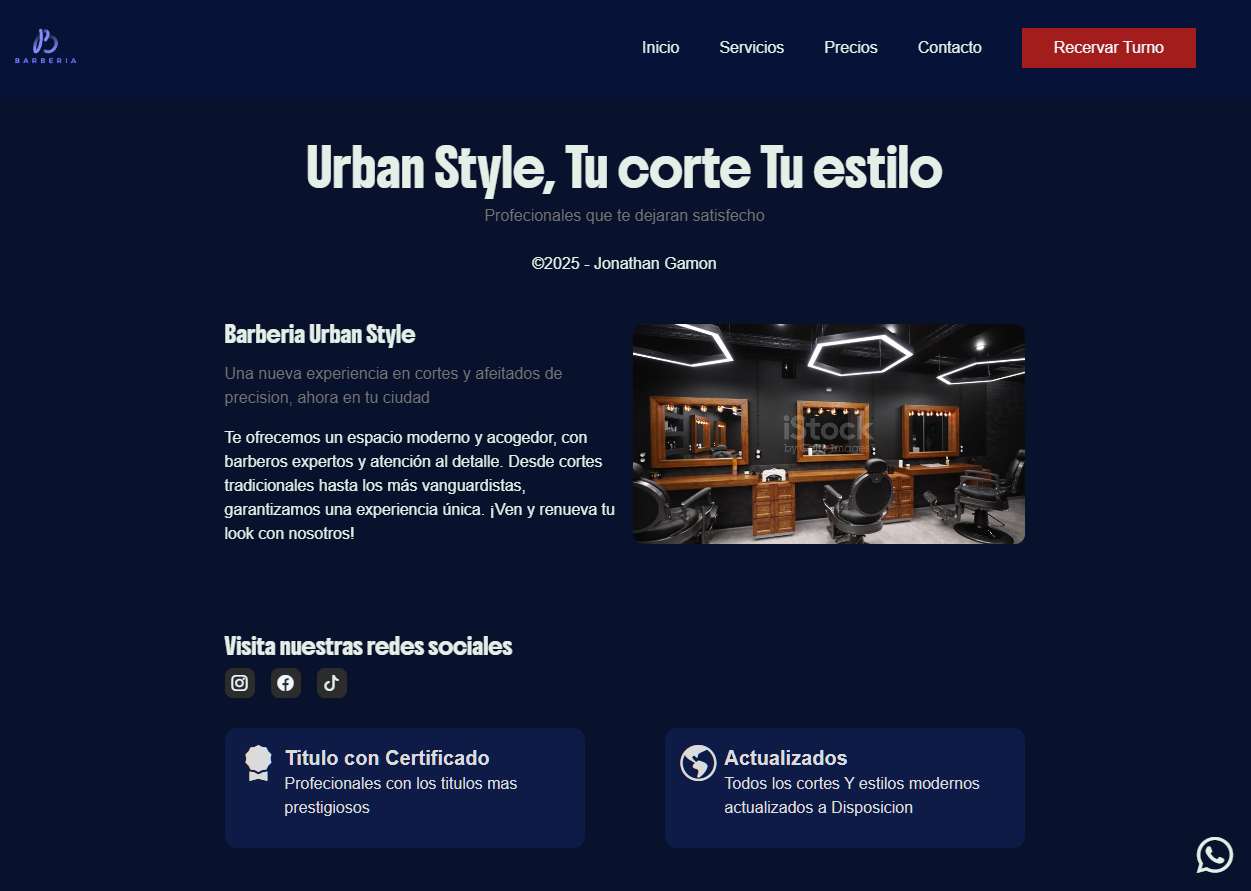
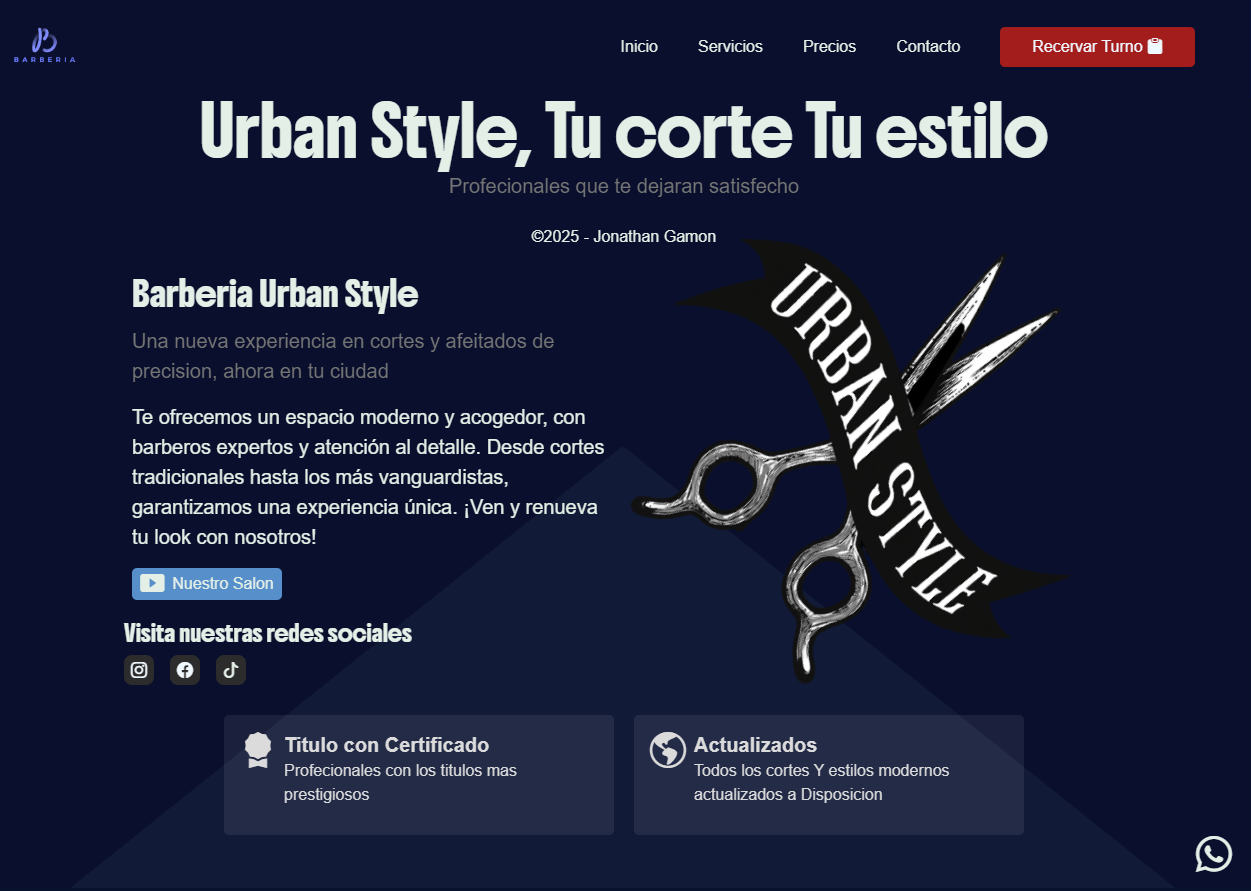
actualizacion en proyecto Barberia

diff --git a/index.html b/index.html
@@ -171,6 +171,41 @@
 
 
 
+        <!-- LANDING BARBERIA -->
+        <main data-aos="fade-up" data-aos-duration="800" class="grid grid-cols-1 grid-rows-8 sm:grid-cols-2 sm:grid-rows-1 gap-2 sm:gap-5 h-[600px] sm:h-[300px] my-[100px]">
+            <img class="row-span-4 sm:row-span-1 h-[100%] rounded-[10px] overflow-hidden m-auto" src="./src/assest/imagenes/img-portafolio/Barberia.png" alt="img-portafolio">
+            
+            <aside class="row-span-4 row-start-5 sm:col-start-2 sm:row-span-1 grid grid-cols-1 grid-rows-5">
+                <h1 class="tittle-project my-auto text-[#fff] text-xl">Barberia - Landing Page</h1>
+
+                <p class="row-span-2 row-start-2">Diseño de una landing page de una Barberia online, con enlaces a redes sociales y formulario para obtencion de turno online - totalmente responsive</p>
+
+                    <div class="flex">
+                        <div class="bg-[#2471a3] text-[#fff] text-[10px] w-[40px]  h-[25px] rounded-lg shadow-md py-2 px-8 flex items-center justify-center gap-2" style="margin: auto 5px;"><i class="fa-brands fa-html5"></i>HTML</div>
+                        <div class="bg-[#2471a3] text-[#fff] text-[10px] w-[40px]  h-[25px] rounded-lg shadow-md py-2 px-8 flex items-center justify-center gap-2" style="margin: auto 5px;"><i class="fa-brands fa-css3-alt"></i>CSS</div>
+                        <div class="bg-[#2471a3] text-[#fff] text-[10px] w-[40px]  h-[25px] rounded-lg shadow-md py-2 px-8 flex items-center justify-center gap-2" style="margin: auto 5px;">TAILWIND</div>
+                        <div class="bg-[#2471a3] text-[#fff] text-[10px] w-[40px]  h-[25px] rounded-lg shadow-md py-2 px-8 flex items-center justify-center gap-2" style="margin: auto 5px;"><i class="fa-brands fa-js"></i>JS</div>
+                    </div>
+
+                    <div class="flex">
+                        <!-- <a href="" style="margin: auto 5px;" target="_blank"><button class="bg-none border-2 border-solid border-[#fff] text-[#fff] text-[10px] w-[40px]  h-[25px] rounded-lg shadow-md py-2 px-8 flex items-center justify-center gap-2"><i class="fa-brands fa-github"></i>Code</button></a> -->
+                        <a href="https://jonathangamon95.github.io/barberia-landing/" style="margin: auto 5px;" target="_blank"><button class="bg-none border-2 border-solid border-[#fff] text-[#fff] text-[10px] w-[40px]  h-[25px] rounded-lg shadow-md py-2 px-8 flex items-center justify-center gap-2">Review</button></a>
+                    </div>
+            </aside>
+        </main>
+
+
+
+
+
+
+
+
+
+
+
+
+
 
         <!-- LANDIG ART DIGITAL-->
         <main data-aos="fade-up" data-aos-duration="800" class="grid grid-cols-1 grid-rows-8 sm:grid-cols-2 sm:grid-rows-1 gap-1 sm:gap-5 h-[600px] sm:h-[300px] my-[100px]">
@@ -200,30 +235,6 @@
 
 
 
-
-
-        <!-- LANDING BARBERIA -->
-        <main data-aos="fade-up" data-aos-duration="800" class="grid grid-cols-1 grid-rows-8 sm:grid-cols-2 sm:grid-rows-1 gap-2 sm:gap-5 h-[600px] sm:h-[300px] my-[100px]">
-            <img class="row-span-4 sm:row-span-1 h-[100%] rounded-[10px] overflow-hidden m-auto" src="./src/assest/imagenes/img-portafolio/Barberia.png" alt="img-portafolio">
-            
-            <aside class="row-span-4 row-start-5 sm:col-start-2 sm:row-span-1 grid grid-cols-1 grid-rows-5">
-                <h1 class="tittle-project my-auto text-[#fff] text-xl">Barberia - Landing Page</h1>
-
-                <p class="row-span-2 row-start-2">Diseño de una landing page de una Barberia online, con enlaces a redes sociales y formulario para obtencion de turno online - totalmente responsive</p>
-
-                    <div class="flex">
-                        <div class="bg-[#2471a3] text-[#fff] text-[10px] w-[40px]  h-[25px] rounded-lg shadow-md py-2 px-8 flex items-center justify-center gap-2" style="margin: auto 5px;"><i class="fa-brands fa-html5"></i>HTML</div>
-                        <div class="bg-[#2471a3] text-[#fff] text-[10px] w-[40px]  h-[25px] rounded-lg shadow-md py-2 px-8 flex items-center justify-center gap-2" style="margin: auto 5px;"><i class="fa-brands fa-css3-alt"></i>CSS</div>
-                        <div class="bg-[#2471a3] text-[#fff] text-[10px] w-[40px]  h-[25px] rounded-lg shadow-md py-2 px-8 flex items-center justify-center gap-2" style="margin: auto 5px;">TAILWIND</div>
-                        <div class="bg-[#2471a3] text-[#fff] text-[10px] w-[40px]  h-[25px] rounded-lg shadow-md py-2 px-8 flex items-center justify-center gap-2" style="margin: auto 5px;"><i class="fa-brands fa-js"></i>JS</div>
-                    </div>
-
-                    <div class="flex">
-                        <!-- <a href="" style="margin: auto 5px;" target="_blank"><button class="bg-none border-2 border-solid border-[#fff] text-[#fff] text-[10px] w-[40px]  h-[25px] rounded-lg shadow-md py-2 px-8 flex items-center justify-center gap-2"><i class="fa-brands fa-github"></i>Code</button></a> -->
-                        <a href="https://jonathangamon95.github.io/barberia-landing/" style="margin: auto 5px;" target="_blank"><button class="bg-none border-2 border-solid border-[#fff] text-[#fff] text-[10px] w-[40px]  h-[25px] rounded-lg shadow-md py-2 px-8 flex items-center justify-center gap-2">Review</button></a>
-                    </div>
-            </aside>
-        </main>
 
 
 
@@ -296,7 +307,11 @@
 
 
 
-        <main data-aos="fade-up" data-aos-duration="800" class="grid grid-cols-1 grid-rows-8 sm:grid-cols-2 sm:grid-rows-1 gap-2 sm:gap-5 h-[600px] sm:h-[300px] my-[100px]">
+
+
+
+
+        <!-- <main data-aos="fade-up" data-aos-duration="800" class="grid grid-cols-1 grid-rows-8 sm:grid-cols-2 sm:grid-rows-1 gap-2 sm:gap-5 h-[600px] sm:h-[300px] my-[100px]">
             <img class="row-span-4 sm:row-span-1 h-[100%] rounded-[10px] overflow-hidden m-auto" src="./src/assest/imagenes/img-portafolio/galeria_slider.jpg" alt="img-portafolio">
             
             <aside class="row-span-4 row-start-5 sm:col-start-2 sm:row-span-1 grid grid-cols-1 grid-rows-5">
@@ -311,11 +326,10 @@
                     </div>
 
                     <div class="flex">
-                        <!-- <a href="" style="margin: auto 5px;" target="_blank"><button class="bg-none border-2 border-solid border-[#fff] text-[#fff] text-[10px] w-[40px]  h-[25px] rounded-lg shadow-md py-2 px-8 flex items-center justify-center gap-2"><i class="fa-brands fa-github"></i>Code</button></a> -->
                         <a href="https://jonathangamon95.github.io/Galer-a-Carrusel-Slider/" style="margin: auto 5px;" target="_blank"><button class="bg-none border-2 border-solid border-[#fff] text-[#fff] text-[10px] w-[40px]  h-[25px] rounded-lg shadow-md py-2 px-8 flex items-center justify-center gap-2">Review</button></a>
                     </div>
             </aside>
-        </main>
+        </main> -->
     </section>
 
 
